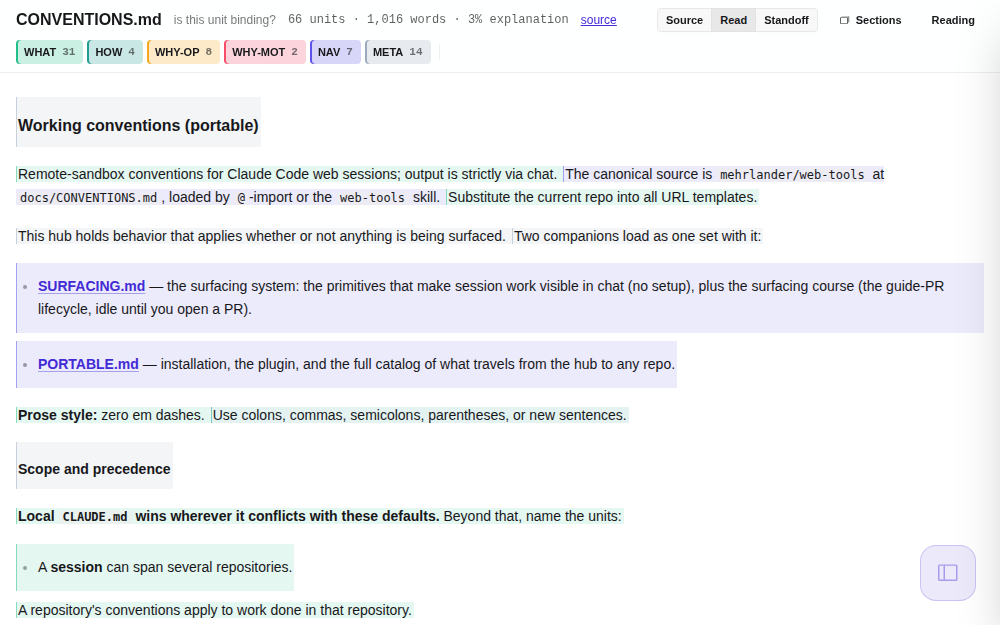
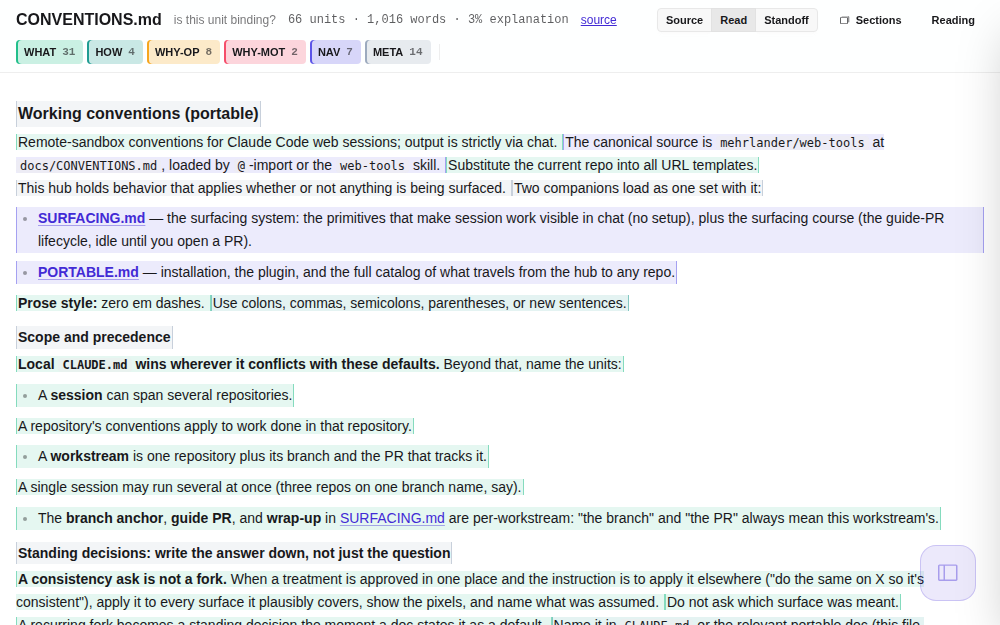
audit-render: mark both ends of a unit, and let markdown own the rhythm
Both edges, on the reasoning that kept the left one. A unit abutting a
same-label neighbour shares its tint, so the end needs marking as much as
the start; one inset shadow each side at the same 1px/.45.

The vertical space was being paid for twice. guide-body already sets the
markdown rhythm (p and ul .5rem, li .125rem, headings .75/.25), and the
painter was adding mb-4 per block group and my-2 per block unit on top of
it. The unit's py-1 also gave the wrapper padding, which stops the inner
element's margins collapsing out, so a gap markdown would have collapsed to
8px was arriving as 24. Read view now sets no wrapper margin at all and the
rhythm is markdown's. Source view keeps mb-3, since there is no markdown CSS
there and the wrapper margin is the only spacing.

Measured on CONVENTIONS.md: heading-to-block 116px to 80, and the viewport
reaches "Status: frozen, stale, wrong" where it used to stop four sections
earlier.

Claude-Session: https://claude.ai/code/session_01GSwTgNMPnampy1zsrsATqr

diff --git a/pages/audit-render.html b/pages/audit-render.html
@@ -901,12 +901,12 @@ window.__audit = {
       host_.appendChild(box);
       for (const b of this.blocks) {
         const wrap = document.createElement(this.view === 'source' ? 'div' : 'div');
-        wrap.className = this.view === 'source' ? 'mb-3' : 'mb-4';
+        wrap.className = this.view === 'source' ? 'mb-3' : '';
         for (const u of b) {
           const { html, broken, block: isBlock } = this.unitHtml(u);
           const block = this.view === 'read' && isBlock;
           const el = document.createElement(block ? 'div' : 'span');
-          el.className = `cursor-pointer px-0.5 ${block ? 'py-1 my-2 w-fit max-w-full' : ''}`;
+          el.className = `cursor-pointer px-0.5 ${block ? 'w-fit max-w-full' : ''}`;
           // Lighter than it was, with the weight moved to hover: the tint marks
           // which label a unit carries and does not need to shout it, and the
           // hover is what says the unit is a target. Inline styles rather than a
@@ -921,7 +921,8 @@ window.__audit = {
           // not decoration: adjacent units sharing a label share a tint, so this
           // rule is the only thing separating them, and a boundary is the object
           // ops.py splits and merges. Was 2px at .9, which read as a rail.
-          el.style.boxShadow = `inset 1px 0 0 0 ${tint(u.label, .45 * this.dim(u))}`;
+          const edge = tint(u.label, .45 * this.dim(u));
+          el.style.boxShadow = `inset 1px 0 0 0 ${edge}, inset -1px 0 0 0 ${edge}`;
           el.style.opacity = this.dim(u);
           if (broken) el.style.outline = '1px dotted rgba(239,68,68,.8)';
           // THE SEPARATOR IS ITS OWN NODE, appended after the map runs below.
